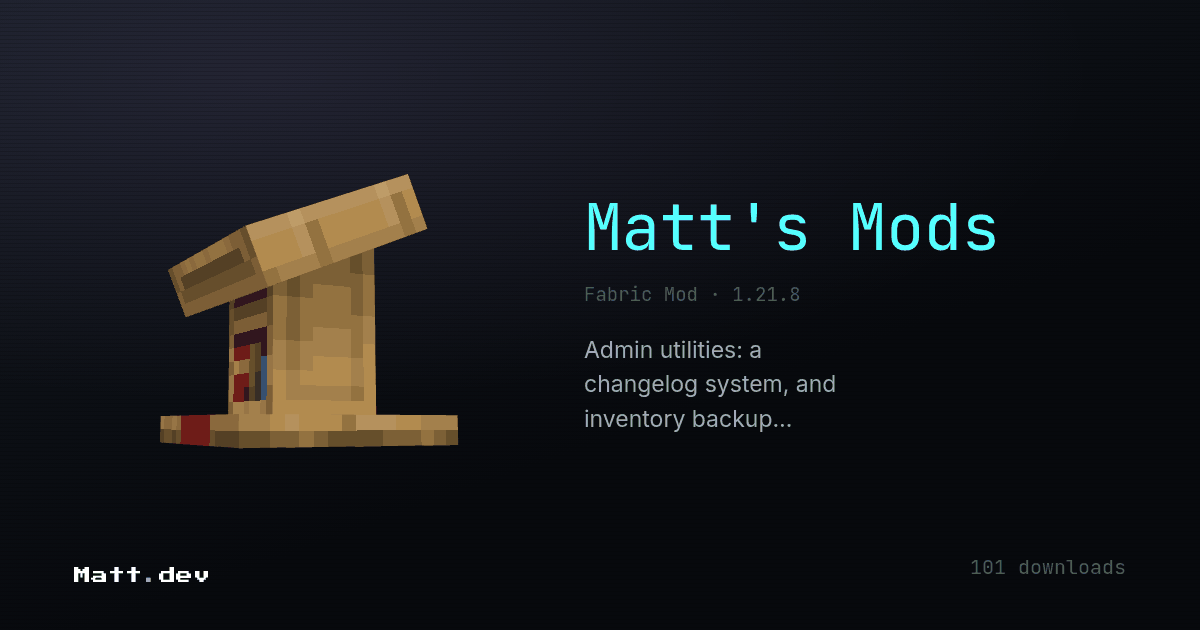
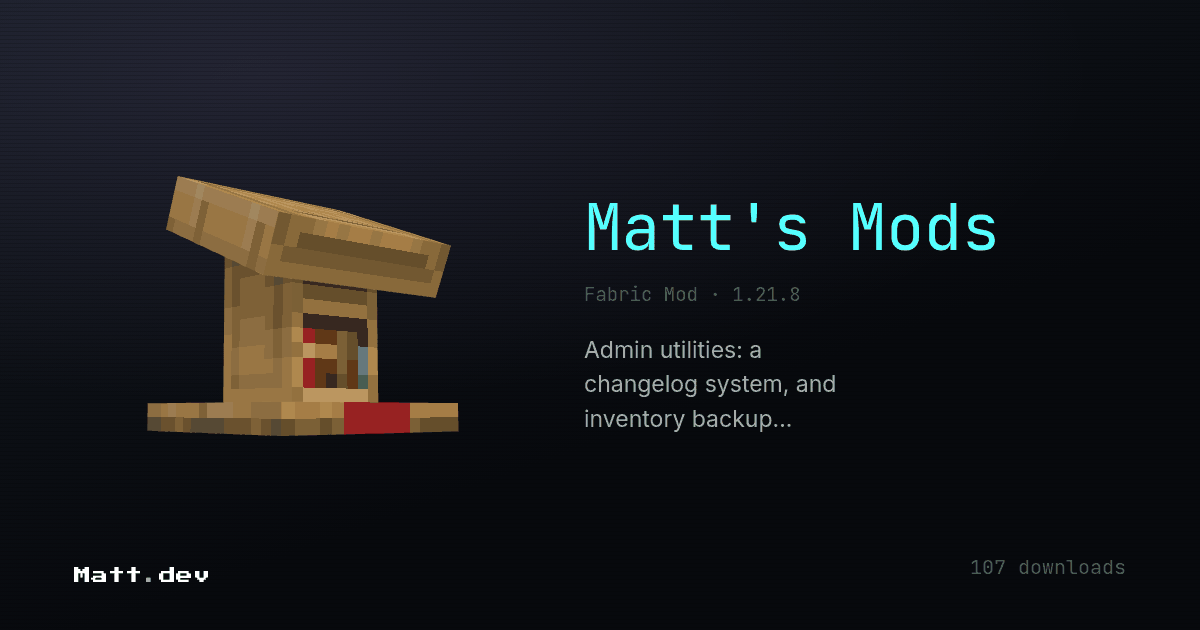
Add LetMeReplace, and sync
LetMeReplace 0.4.0 (MC 26.2), a Litematica addon: material replace that
keeps each block's state, palette changes, layer removal, replaces confined
to a layer selection, slab halves and wood normalization. Unreleased —
no Modrinth project and no public repo yet — so it lands in the workshop
tier beside Parakon and speak.

Also the ordinary sync: download counts for six published projects, the
deathchestreborn gallery re-mirrored after an upstream change, and all 16
share cards re-rendered.

diff --git a/p/letmereplace/index.html b/p/letmereplace/index.html
@@ -1,0 +1,70 @@
+<!DOCTYPE html>
+<html lang="en">
+<head>
+  <meta charset="UTF-8" />
+  <meta name="viewport" content="width=device-width, initial-scale=1.0" />
+  <title>LetMeReplace — Matt.dev</title>
+  <meta name="description" content="Minecraft mod and plugin developer. Fabric mods and Paper plugins, plus a few tools." />
+  <!-- og:start --><!-- generated by sync.py; edit index.html, not this -->
+  <link rel="canonical" href="https://mattlawliet.github.io/p/letmereplace/" />
+  <meta property="og:type" content="website" />
+  <meta property="og:site_name" content="Matt.dev" />
+  <meta property="og:url" content="https://mattlawliet.github.io/p/letmereplace/" />
+  <meta property="og:title" content="LetMeReplace — Matt.dev" />
+  <meta property="og:description" content="Litematica addon. Replace a material everywhere in a schematic, keeping every block's rotation and state." />
+  <meta property="og:image" content="https://mattlawliet.github.io/og/letmereplace.png" />
+  <meta property="og:image:width" content="1200" />
+  <meta property="og:image:height" content="630" />
+  <meta name="twitter:card" content="summary_large_image" />
+  <!-- og:end -->
+  <link rel="icon" type="image/webp" href="/assets/avatar.webp" />
+  <link rel="preconnect" href="https://fonts.googleapis.com" />
+  <link rel="preconnect" href="https://fonts.gstatic.com" crossorigin />
+  <link href="https://fonts.googleapis.com/css2?family=Inter:wght@300;400;500;600&family=JetBrains+Mono:wght@400;500&family=Press+Start+2P&display=swap" rel="stylesheet" />
+  <link rel="stylesheet" href="/style.css?v=8c3ccc9e" />
+</head>
+<body>
+  <header class="hero">
+    <div class="hero-inner">
+      <div class="hero-art" id="heroArt" role="img" aria-label="Rimuru mask, modelled in Blockbench"></div>
+      <div class="hero-text">
+        <h1>Matt<span class="accent">.</span>dev</h1>
+        <p class="handle">Matt_Lawliet</p>
+        <p class="bio">Minecraft mod &amp; plugin dev. Building tools that actually work the way they should.</p>
+        <p class="tally" id="tally"></p>
+        <div class="links">
+          <a href="https://github.com/MattLawliet" class="link-btn" target="_blank" rel="noopener">GitHub</a>
+          <a href="https://modrinth.com/user/Matt_Lawliet" class="link-btn" target="_blank" rel="noopener">Modrinth</a>
+          <a href="mailto:math970621@gmail.com" class="link-btn">Contact</a>
+        </div>
+      </div>
+    </div>
+  </header>
+
+  <main>
+    <section class="projects-section">
+      <div class="section-header">
+        <h2>Projects <span class="count" id="count">–</span></h2>
+        <div class="legend" aria-label="Rarity is set by download count">
+          <b class="r-common">■ common</b><b class="r-uncommon">■ uncommon 25+</b><b class="r-rare">■ rare 100+</b><b class="r-epic">■ epic 200+</b>
+        </div>
+      </div>
+      <div id="grid"></div>
+      <noscript><p class="load-fail">This page needs JavaScript to list projects.</p></noscript>
+    </section>
+  </main>
+
+  <footer class="foot">
+    <span>Matt_Lawliet</span>
+    <a href="https://github.com/MattLawliet" target="_blank" rel="noopener">GitHub</a>
+    <a href="https://modrinth.com/user/Matt_Lawliet" target="_blank" rel="noopener">Modrinth</a>
+    <span class="attrib">Minecraft assets &copy; Mojang Studios. Not an official Minecraft product.</span>
+  </footer>
+
+  <canvas id="gl" aria-hidden="true"></canvas>
+  <div id="tip" role="tooltip" aria-hidden="true"></div>
+  <div id="detail" role="dialog" aria-modal="true" aria-label="Project details"></div>
+
+  <script type="module" src="/main.js?v=8c3ccc9e"></script>
+</body>
+</html>
